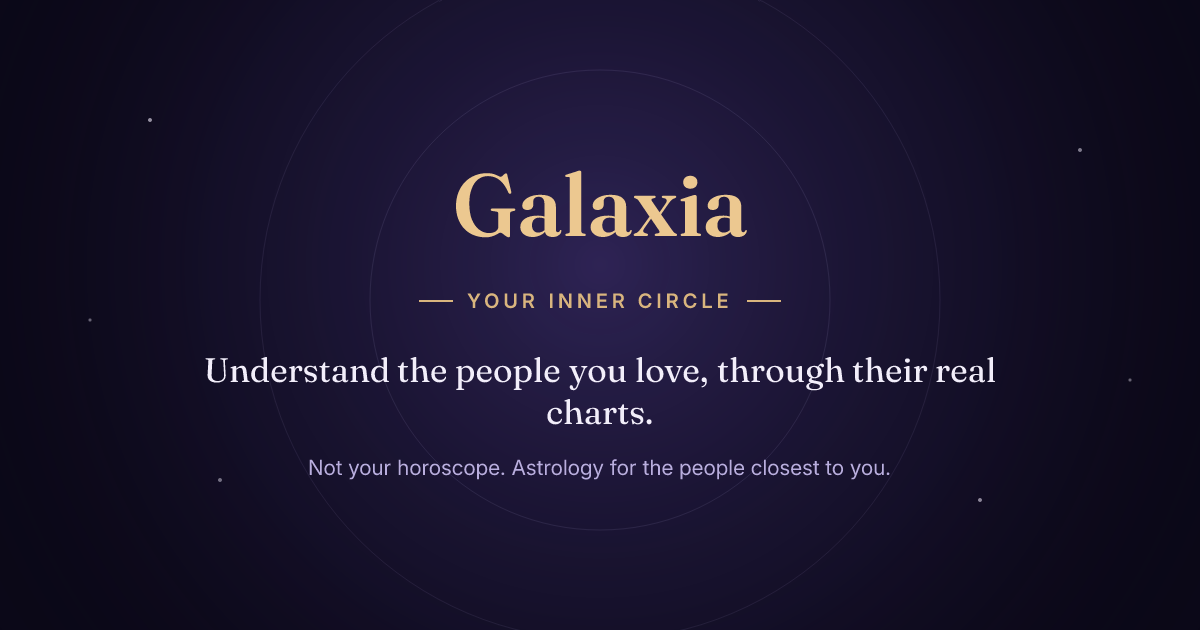
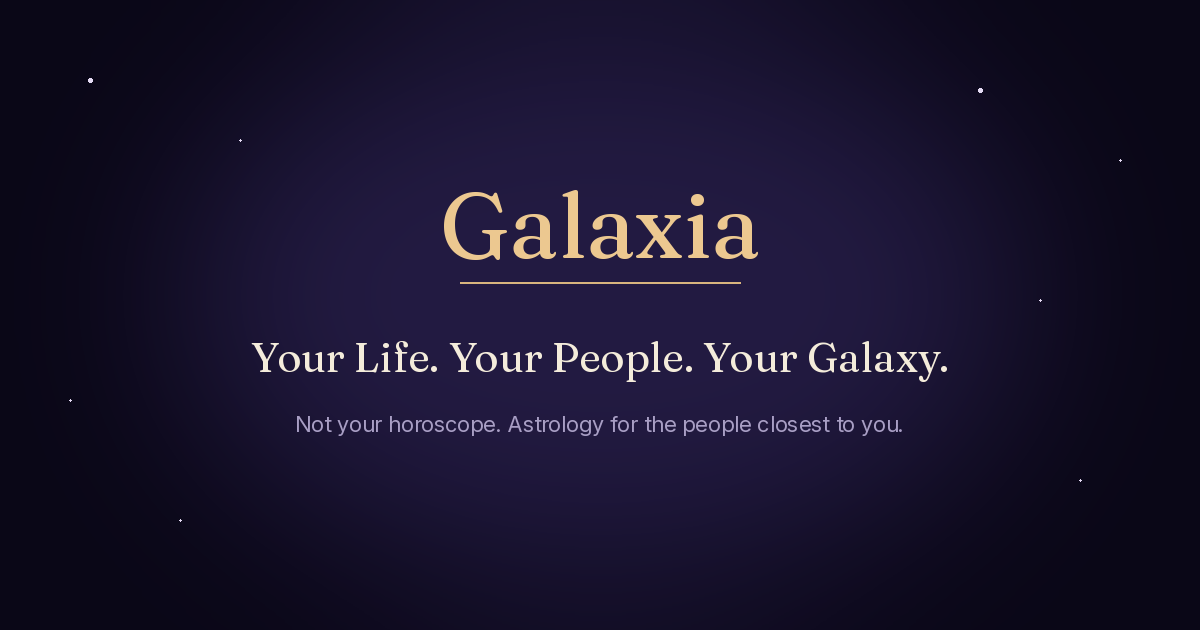
Replace retired homepage title with locked tagline
Your Life. Your People. Your Galaxy. now leads the homepage title,
Open Graph and Twitter titles, the meta description, the Play Store
short description, and the mobile sign-in lede. JSON-LD name stays
Galaxia; JSON-LD description stays the computes-a-real-chart sentence.

diff --git a/apps/web/lib/homepage-copy.test.ts b/apps/web/lib/homepage-copy.test.ts
@@ -1,7 +1,7 @@
 import { readFileSync } from "node:fs";
 import { join } from "node:path";
 import { describe, expect, it } from "vitest";
-import { HOMEPAGE_DESCRIPTION, HOMEPAGE_TITLE } from "./homepage-seo";
+import { HOMEPAGE_DESCRIPTION, HOMEPAGE_JSON_LD_DESCRIPTION, HOMEPAGE_TAGLINE, HOMEPAGE_TITLE } from "./homepage-seo";
 import { FEATURE_TEASER_LINKS, HERO_HOW_IT_WORKS, MARKETING_NAV_LOGIN, MARKETING_NAV_SIGNUP } from "./nav-links";
 
 const WEB_ROOT = join(__dirname, "..");
@@ -12,17 +12,24 @@ function read(relPath: string): string {
 
 describe("homepage outcome-led copy", () => {
   it("locks the founder-specified title and description", () => {
-    expect(HOMEPAGE_TITLE).toBe("Understand the people you love | Galaxia");
+    expect(HOMEPAGE_TAGLINE).toBe("Your Life. Your People. Your Galaxy.");
+    expect(HOMEPAGE_TITLE).toBe("Your Life. Your People. Your Galaxy. | Galaxia");
     expect(HOMEPAGE_DESCRIPTION).toBe(
+      "Your Life. Your People. Your Galaxy. Galaxia computes the real birth chart of everyone in your life, your partner, your parents, your friends, the ones you have lost, and tells you what each of them needs from you. Real astrology, plain language, no horoscopes.",
+    );
+    expect(HOMEPAGE_JSON_LD_DESCRIPTION).toBe(
       "Galaxia computes the real birth chart of everyone in your life, your partner, your parents, your friends, the ones you have lost, and tells you what each of them needs from you. Real astrology, plain language, no horoscopes.",
     );
+    expect(HOMEPAGE_TITLE.startsWith(HOMEPAGE_TAGLINE)).toBe(true);
+    expect(HOMEPAGE_DESCRIPTION.startsWith(HOMEPAGE_TAGLINE)).toBe(true);
     expect(HOMEPAGE_TITLE.includes("\u2014")).toBe(false);
     expect(HOMEPAGE_DESCRIPTION.includes("\u2014")).toBe(false);
+    expect(HOMEPAGE_JSON_LD_DESCRIPTION.includes("\u2014")).toBe(false);
   });
 
   it("renders the headline, unified value proposition, and how-it-works cue", () => {
     const src = read("components/marketing/hero.tsx");
-    expect(src).toContain("Your life. Your people. Your galaxy.");
+    expect(src).toContain("Your Life. Your People. Your Galaxy.");
     expect(src).not.toContain("Galaxia · your inner circle");
     expect(src).not.toContain("YOUR INNER CIRCLE");
     expect(src).not.toContain("Your Inner Circle");

diff --git a/apps/web/lib/voice-layers.test.ts b/apps/web/lib/voice-layers.test.ts
@@ -13,7 +13,7 @@ import {
   type TrialEmailData
 } from "./emails";
 import { SOFTWARE_APPLICATION_JSON_LD } from "./homepage-software-application-json-ld";
-import { HOMEPAGE_DESCRIPTION } from "./homepage-seo";
+import { HOMEPAGE_DESCRIPTION, HOMEPAGE_JSON_LD_DESCRIPTION, HOMEPAGE_TITLE } from "./homepage-seo";
 import { TITLE as CHART_TITLE, DESCRIPTION as CHART_DESCRIPTION } from "../app/chart/chart-seo";
 import { buildCategoryMetadata, SITE_OG_IMAGE } from "./blog-metadata";
 
@@ -81,7 +81,14 @@ describe("layer one: lead with outcome, never an astrology app", () => {
     const iosVisible = ios.split("## Keywords")[0] ?? ios;
     expect(iosVisible).not.toMatch(ASTROLOGY_APP);
     expect(play).not.toMatch(ASTROLOGY_APP);
-    expect(play).toMatch(/Understand the people you love/);
+    expect(play).toMatch(/Your Life\. Your People\. Your Galaxy\./);
+    const playShort = play.split("## Full description")[0]?.split("## Short description")[1] ?? "";
+    const playShortLine = playShort
+      .split("\n")
+      .map((line) => line.trim())
+      .find((line) => line.length > 0 && !line.startsWith("<!--") && !line.startsWith("(max"));
+    expect(playShortLine).toBeDefined();
+    expect(playShortLine!.length).toBeLessThanOrEqual(80);
   });
 
   it("email subjects lead with outcome, not astrology", () => {
@@ -122,9 +129,12 @@ describe("layer one: lead with outcome, never an astrology app", () => {
 
 describe("layer two: astrology language stays where search and in-product intent live", () => {
   it("does not strip astrology from homepage metadata or JSON-LD", () => {
+    expect(HOMEPAGE_TITLE).toContain("Your Life. Your People. Your Galaxy.");
     expect(HOMEPAGE_DESCRIPTION).toMatch(/astrology/i);
     expect(HOMEPAGE_DESCRIPTION).toMatch(/birth chart/i);
-    expect(SOFTWARE_APPLICATION_JSON_LD.description as string).toBe(HOMEPAGE_DESCRIPTION);
+    expect(HOMEPAGE_JSON_LD_DESCRIPTION).toMatch(/astrology/i);
+    expect(HOMEPAGE_JSON_LD_DESCRIPTION).toMatch(/birth chart/i);
+    expect(SOFTWARE_APPLICATION_JSON_LD.description as string).toBe(HOMEPAGE_JSON_LD_DESCRIPTION);
     expect(SITE_OG_IMAGE.alt).toMatch(/astrology/i);
     expect(readRepo("apps/web/app/page.tsx")).toMatch(/HOMEPAGE_TITLE/);
   });

diff --git a/apps/web/lib/homepage-seo.ts b/apps/web/lib/homepage-seo.ts
@@ -1,8 +1,28 @@
 /**
- * Homepage title and description. Shared by `app/page.tsx` metadata and the
- * SoftwareApplication JSON-LD `description` field so the two cannot drift.
+ * Homepage title and description. `app/page.tsx` metadata (title, meta
+ * description, Open Graph, Twitter) uses these two constants. The
+ * SoftwareApplication JSON-LD `description` is a separate sentence
+ * (`HOMEPAGE_JSON_LD_DESCRIPTION`): stuffing the tagline into schema.org
+ * copy reads as a slogan, not a product description.
  */
-export const HOMEPAGE_TITLE = "Understand the people you love | Galaxia";
 
+/** FOUNDER-REVIEW: locked homepage tagline. Exact text, punctuation, capitalization. */
+export const HOMEPAGE_TAGLINE = "Your Life. Your People. Your Galaxy.";
+
+/** FOUNDER-REVIEW: homepage <title>, og:title, and twitter:title. */
+export const HOMEPAGE_TITLE = "Your Life. Your People. Your Galaxy. | Galaxia";
+
+/**
+ * FOUNDER-REVIEW: homepage meta description, og:description, and
+ * twitter:description. The three locked clauses stay intact; astrology
+ * vocabulary stays because metadata is layer two (ENGINEERING.md §17).
+ */
 export const HOMEPAGE_DESCRIPTION =
+  "Your Life. Your People. Your Galaxy. Galaxia computes the real birth chart of everyone in your life, your partner, your parents, your friends, the ones you have lost, and tells you what each of them needs from you. Real astrology, plain language, no horoscopes.";
+
+/**
+ * Accurate SoftwareApplication JSON-LD description. Same claim as the
+ * page description, without the tagline prefix.
+ */
+export const HOMEPAGE_JSON_LD_DESCRIPTION =
   "Galaxia computes the real birth chart of everyone in your life, your partner, your parents, your friends, the ones you have lost, and tells you what each of them needs from you. Real astrology, plain language, no horoscopes.";

diff --git a/apps/web/lib/homepage-json-ld.test.ts b/apps/web/lib/homepage-json-ld.test.ts
@@ -1,7 +1,7 @@
 import { describe, expect, it } from "vitest";
 import { readFileSync } from "node:fs";
 import { join } from "node:path";
-import { HOMEPAGE_DESCRIPTION } from "./homepage-seo";
+import { HOMEPAGE_DESCRIPTION, HOMEPAGE_JSON_LD_DESCRIPTION } from "./homepage-seo";
 import { SOFTWARE_APPLICATION_JSON_LD } from "./homepage-software-application-json-ld";
 
 const REPO_ROOT = join(__dirname, "..", "..", "..");
@@ -29,14 +29,16 @@ describe("homepage SoftwareApplication JSON-LD", () => {
     expect(src).not.toMatch(/operatingSystem:\s*"iOS/);
   });
 
-  it("keeps SoftwareApplication shape and matches homepage metadata description", () => {
+  it("keeps SoftwareApplication shape and an accurate description without the tagline slogan", () => {
     expect(SOFTWARE_APPLICATION_JSON_LD["@type"]).toBe("SoftwareApplication");
     expect(SOFTWARE_APPLICATION_JSON_LD["@context"]).toBe("https://schema.org");
     expect(SOFTWARE_APPLICATION_JSON_LD.name).toBe("Galaxia");
     expect(SOFTWARE_APPLICATION_JSON_LD.applicationCategory).toBe("LifestyleApplication");
     expect(SOFTWARE_APPLICATION_JSON_LD.operatingSystem).toBe("Web");
     expect(SOFTWARE_APPLICATION_JSON_LD.url).toBe("https://galaxiamea.com");
-    expect(SOFTWARE_APPLICATION_JSON_LD.description).toBe(HOMEPAGE_DESCRIPTION);
+    expect(SOFTWARE_APPLICATION_JSON_LD.description).toBe(HOMEPAGE_JSON_LD_DESCRIPTION);
+    expect(SOFTWARE_APPLICATION_JSON_LD.description).not.toBe(HOMEPAGE_DESCRIPTION);
+    expect(String(SOFTWARE_APPLICATION_JSON_LD.description)).not.toContain("Your Life. Your People. Your Galaxy.");
     expect(SOFTWARE_APPLICATION_JSON_LD.offers).toMatchObject({
       "@type": "Offer",
       price: "9.99",

diff --git a/apps/web/lib/seo-crawl-foundations.test.ts b/apps/web/lib/seo-crawl-foundations.test.ts
@@ -144,7 +144,7 @@ describe("homepage meta description", () => {
     const seo = readRoute("apps/web/lib/homepage-seo.ts");
     const match = seo.match(/export const HOMEPAGE_DESCRIPTION =\s*\n\s*"([^"]+)"/);
     expect(match?.[1]).toBe(
-      "Galaxia computes the real birth chart of everyone in your life, your partner, your parents, your friends, the ones you have lost, and tells you what each of them needs from you. Real astrology, plain language, no horoscopes.",
+      "Your Life. Your People. Your Galaxy. Galaxia computes the real birth chart of everyone in your life, your partner, your parents, your friends, the ones you have lost, and tells you what each of them needs from you. Real astrology, plain language, no horoscopes.",
     );
   });
 });

diff --git a/apps/web/components/marketing/hero.tsx b/apps/web/components/marketing/hero.tsx
@@ -27,7 +27,8 @@ export function Hero() {
     <header className="hero container">
       <div className="hero-grid">
         <div className="hero-text">
-          <span className="eyebrow fade-in">Your life. Your people. Your galaxy.</span>
+          {/* FOUNDER-REVIEW: locked homepage tagline. Eyebrow CSS still uppercases it. */}
+          <span className="eyebrow fade-in">Your Life. Your People. Your Galaxy.</span>
           <h1 className="hero-h1 fade-in fade-in-delay-1">
             {/* FOUNDER-REVIEW: homepage hero headline. Gold italic on the terminal beat, matching close-h. */}
             Better understand the people <em className="hero-h1__accent">in your life</em>

diff --git a/apps/web/lib/homepage-software-application-json-ld.ts b/apps/web/lib/homepage-software-application-json-ld.ts
@@ -1,6 +1,6 @@
 import { GALAXIA_HELP_EMAIL } from "@galaxia/core";
 import type { JsonLdObject } from "../components/seo/json-ld";
-import { HOMEPAGE_DESCRIPTION } from "./homepage-seo";
+import { HOMEPAGE_JSON_LD_DESCRIPTION } from "./homepage-seo";
 
 /**
  * Homepage SoftwareApplication JSON-LD. Galaxia ships on the web only;
@@ -13,7 +13,7 @@ export const SOFTWARE_APPLICATION_JSON_LD: JsonLdObject = {
   applicationCategory: "LifestyleApplication",
   operatingSystem: "Web",
   url: "https://galaxiamea.com",
-  description: HOMEPAGE_DESCRIPTION,
+  description: HOMEPAGE_JSON_LD_DESCRIPTION,
   offers: {
     "@type": "Offer",
     price: "9.99",

diff --git a/apps/mobile/app/index.tsx b/apps/mobile/app/index.tsx
@@ -73,8 +73,9 @@ export default function PublicIndexScreen() {
       }}
     >
       <Text style={{ color: tokens.colors.cream, fontSize: 34, fontWeight: "700" }}>Galaxia</Text>
+      {/* FOUNDER-REVIEW: locked homepage tagline, then the sign-in cue. */}
       <Text style={{ color: tokens.colors.mist, lineHeight: 22 }}>
-                Understand the people you love. Sign in to map your inner circle, then show up for each bond with more intention.
+        Your Life. Your People. Your Galaxy. Sign in to map your inner circle, then show up for each bond with more intention.
       </Text>
       <TextInput
         placeholder="Email"

diff --git a/changelog.d/cursor-homepage-tagline-galaxy-beea.md b/changelog.d/cursor-homepage-tagline-galaxy-beea.md
@@ -1,0 +1,23 @@
+## Homepage tagline is the locked three-beat line (branch `cursor/homepage-tagline-galaxy-beea`) — 2026-09-16
+
+**Trigger**: F2 planted "Understand the people you love" as the homepage `<title>` and a close variant on metadata, store, and mobile. That line is retired. The founder locked `Your Life. Your People. Your Galaxy.`
+
+`[CHANGED]` **Homepage `<title>`, Open Graph title, and Twitter title** (`apps/web/lib/homepage-seo.ts`, wired by `app/page.tsx`). Now `Your Life. Your People. Your Galaxy. | Galaxia`. FOUNDER-REVIEW.
+
+`[CHANGED]` **Homepage meta description, og:description, and twitter:description.** The three locked clauses stay intact at the front of the existing computes-a-real-chart sentence, so layer-two astrology vocabulary (`birth chart`, `Real astrology`) remains. FOUNDER-REVIEW.
+
+`[DECISION]` **SoftwareApplication JSON-LD `name` stays `Galaxia`.** It did not duplicate the old title. JSON-LD `description` stays the accurate computes-a-real-chart sentence (`HOMEPAGE_JSON_LD_DESCRIPTION`) and does not take the tagline prefix, because a slogan at the start of schema.org copy reads awkwardly. Metadata and JSON-LD description are now allowed to differ on that prefix only.
+
+`[CHANGED]` **Hero eyebrow capitalization** in `apps/web/components/marketing/hero.tsx` to the locked Title Case. CSS `.eyebrow` still uppercases it, so the rendered line is unchanged. The H1 pairing ("Every app like this is about you" / "This one is about them") is already gone; the current H1 ("Better understand the people in your life") is untouched pending founder review. FOUNDER-REVIEW.
+
+`[CHANGED]` **Play Store short description** (`content/store/play-store.md`) and **mobile public sign-in lede** (`apps/mobile/app/index.tsx`) to lead with the locked line. FOUNDER-REVIEW.
+
+`[CHANGED]` **`apps/web/public/og-image.png`.** The static 1200x630 share card still painted the retired line. Regenerated with the locked tagline as the main sentence, same violet field, gold wordmark, and the inner astrology subline.
+
+`[OPEN]` **Hero H1** ("Better understand the people in your life") is a close paraphrase of the retired title. The founder's instruction named the title specifically. Left in place.
+
+`[OPEN]` **iOS App Store subtitle** remains "Understand who you love" (`content/store/app-store.md`). The locked line is 37 characters and the subtitle cap is 30.
+
+`[OPEN]` **Paid social primary text**, OG/Twitter image alt ("Galaxia: astrology for the people you love"), footer/email closer ("The people you love, written in the stars."), Why Galaxia H2 ("Astrology forgot the people you love."), and `design/galaxia-pricing-copy.md` one-sentence pitch still use related phrasing, not the locked line.
+
+No em dashes. Every new user-facing string tagged FOUNDER-REVIEW.

diff --git a/content/store/play-store.md b/content/store/play-store.md
@@ -1,6 +1,6 @@
 # Play Store listing (Android)
 
-Paste into Play Console. Visible fields are **layer one** (`design/galaxia-voice-layers.md`): lead with outcome. Astrology is not the first word.
+Paste into Play Console. Visible fields are **layer one** (`design/galaxia-voice-layers.md`): lead with outcome. Astrology is not the first word. Short description tagged FOUNDER-REVIEW.
 
 ## Title (max 30 characters)
 
@@ -8,7 +8,7 @@ Galaxia
 
 ## Short description (max 80 characters)
 
-Understand the people you love. Show up for each bond with more intention.
+Your Life. Your People. Your Galaxy. Show up for each bond with more intention.
 
 ## Full description
 
